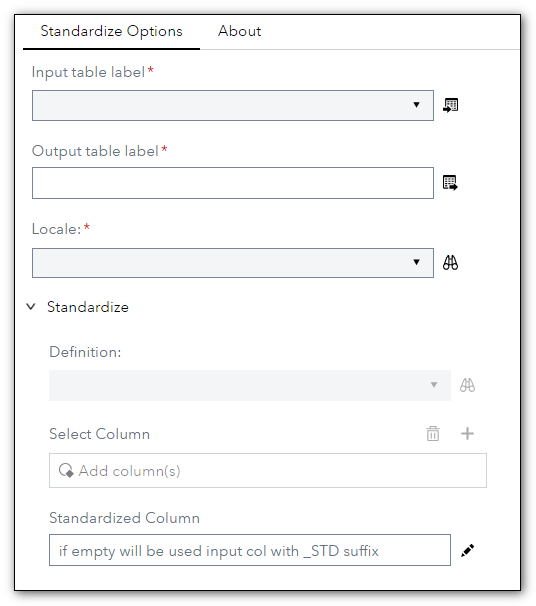
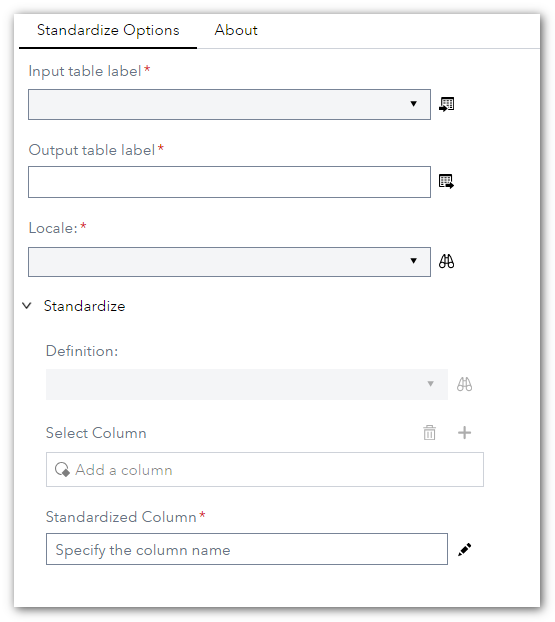
New standardized columns made mandatory

diff --git a/DQ - Standardize/README.md b/DQ - Standardize/README.md
@@ -27,7 +27,7 @@ and it is highly recommended to use that step going forward when possible.
 
 ## Requirements  
 
-2023.06 or later  
+2024.01 or later  
 
 * This custom step requires a SAS Quality Knowledge Base (QKB) to be installed and configured. More details can be found in the documentation that is available [here](https://support.sas.com/en/software/quality-knowledge-base-support.html)  
 
@@ -37,6 +37,9 @@ and it is highly recommended to use that step going forward when possible.
 ![Using the DQ - Standardize Custom Step](img/dqstandardize.gif)
 
 ## Change Log  
+
+Version 2.2 (21MAR2024) 
+ * New standardized columns made mandatory  
   
 Version 2.1 (27JUL2023)
  * assign SASDQREF if it has not been assigned 
